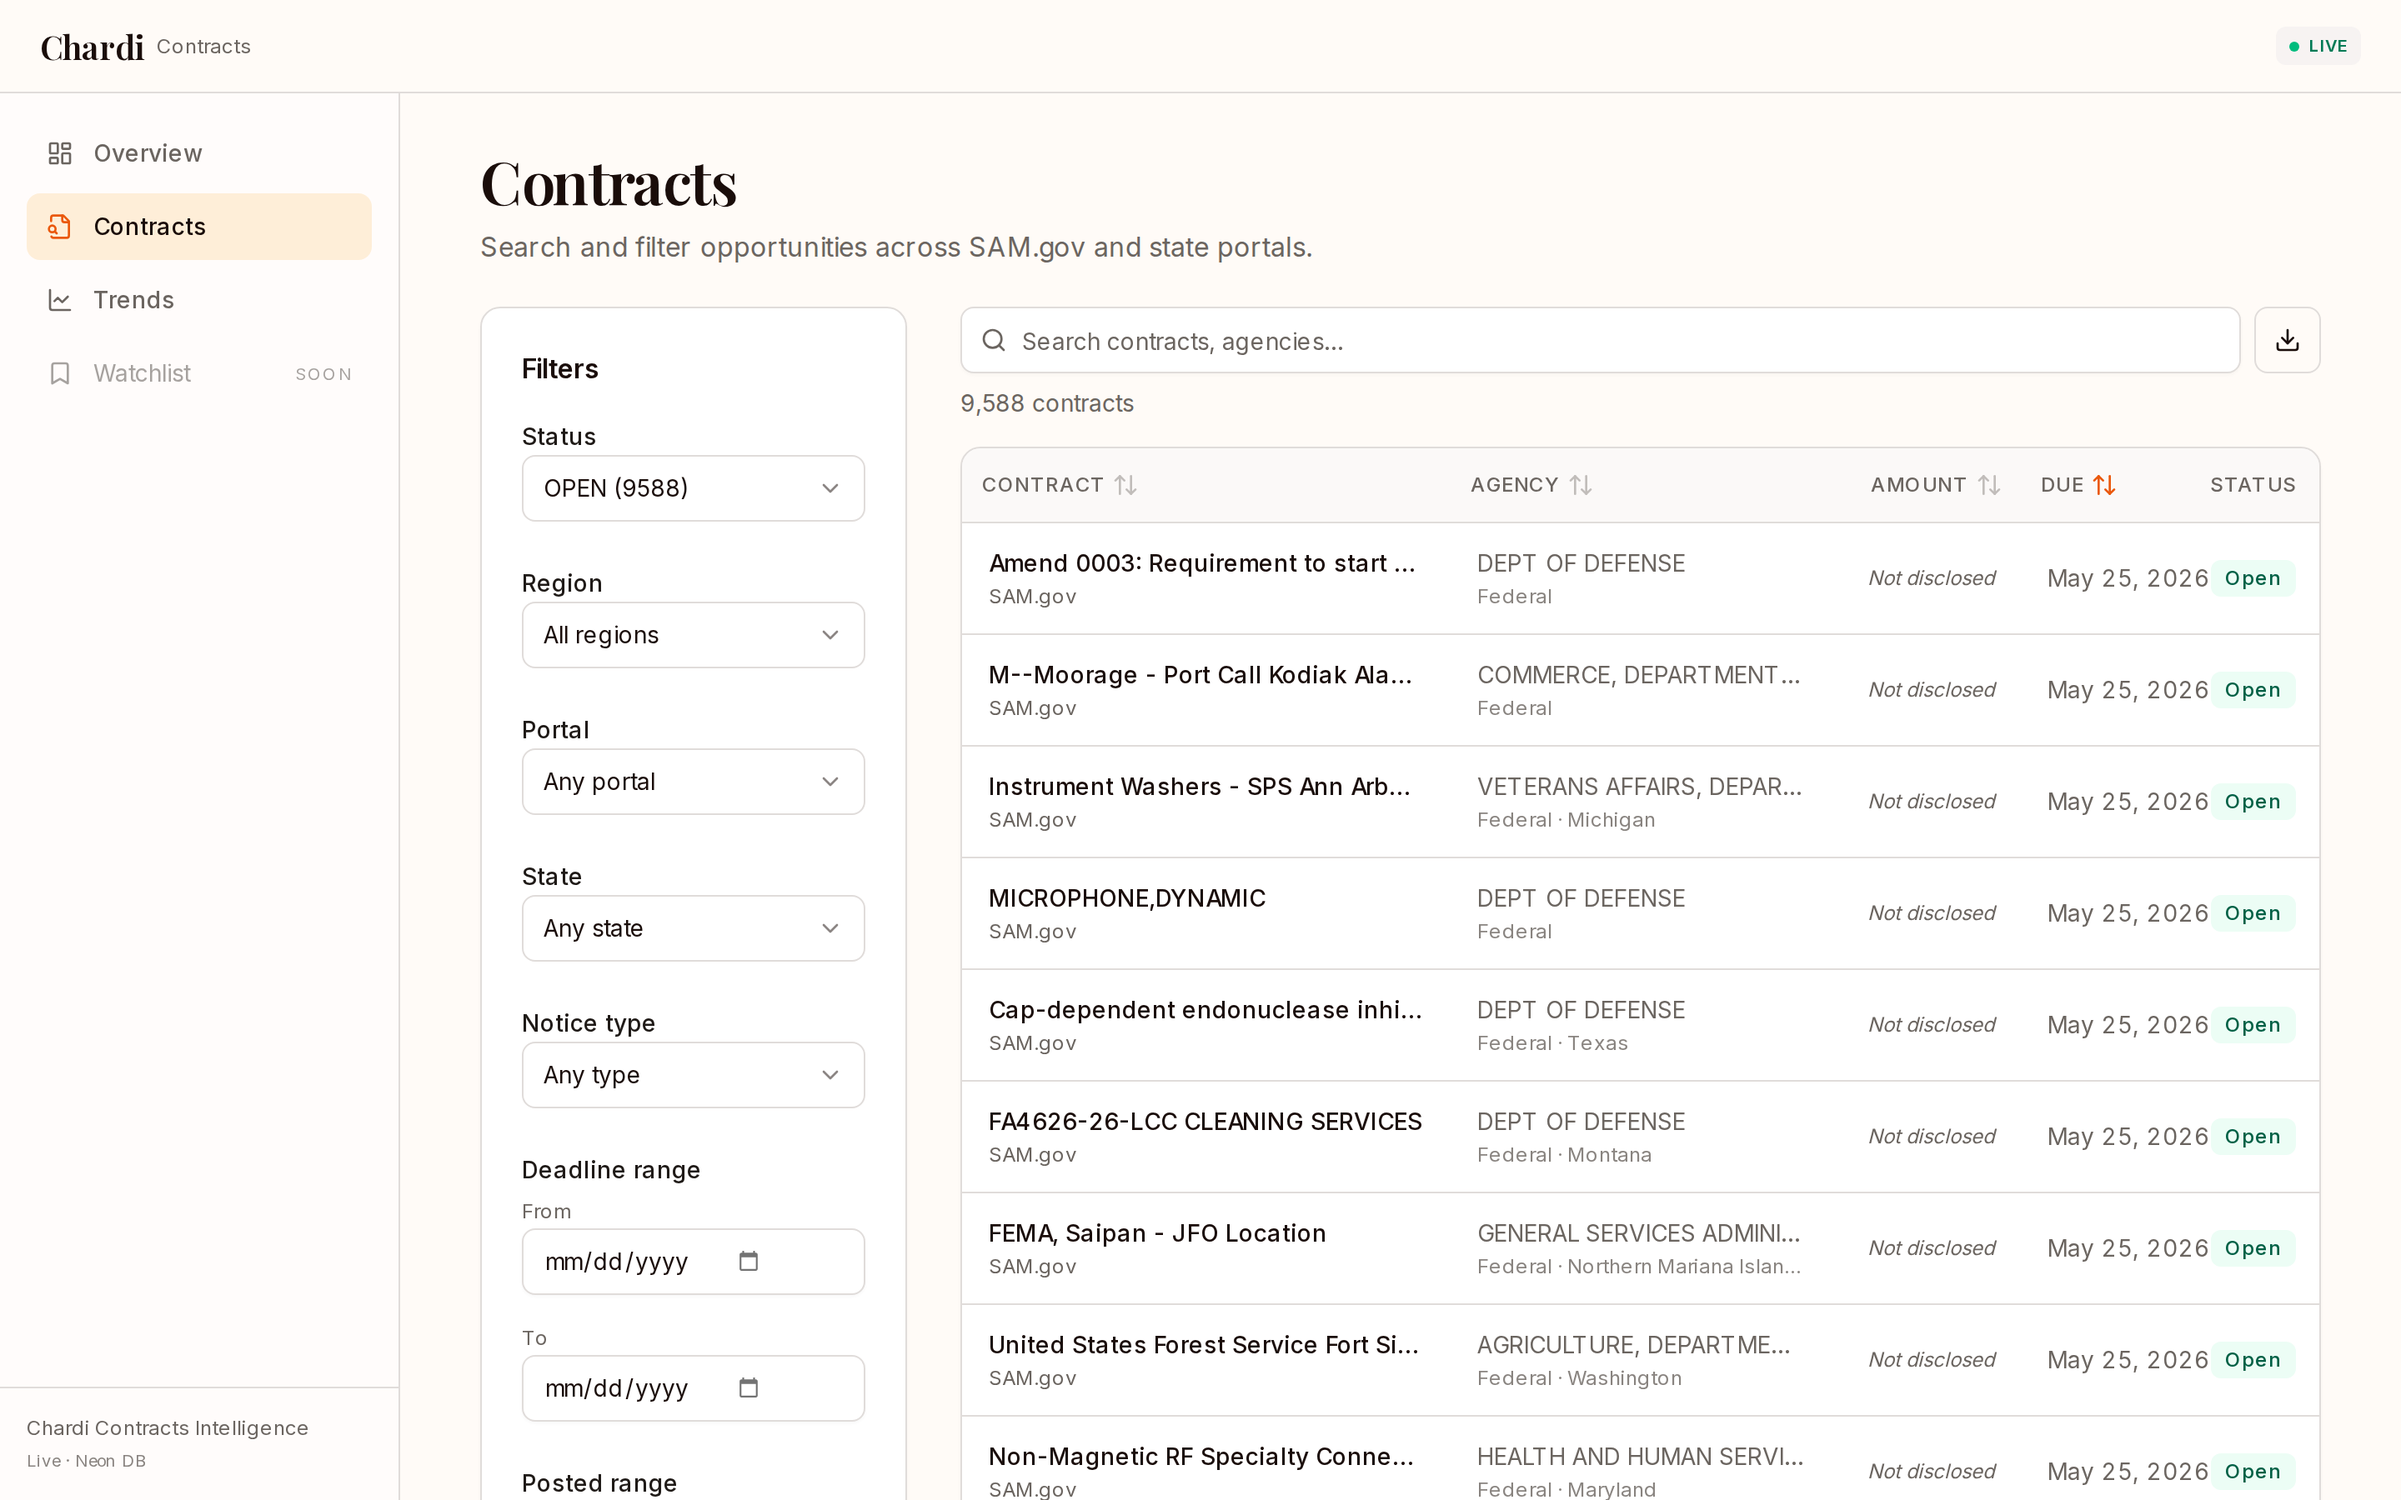
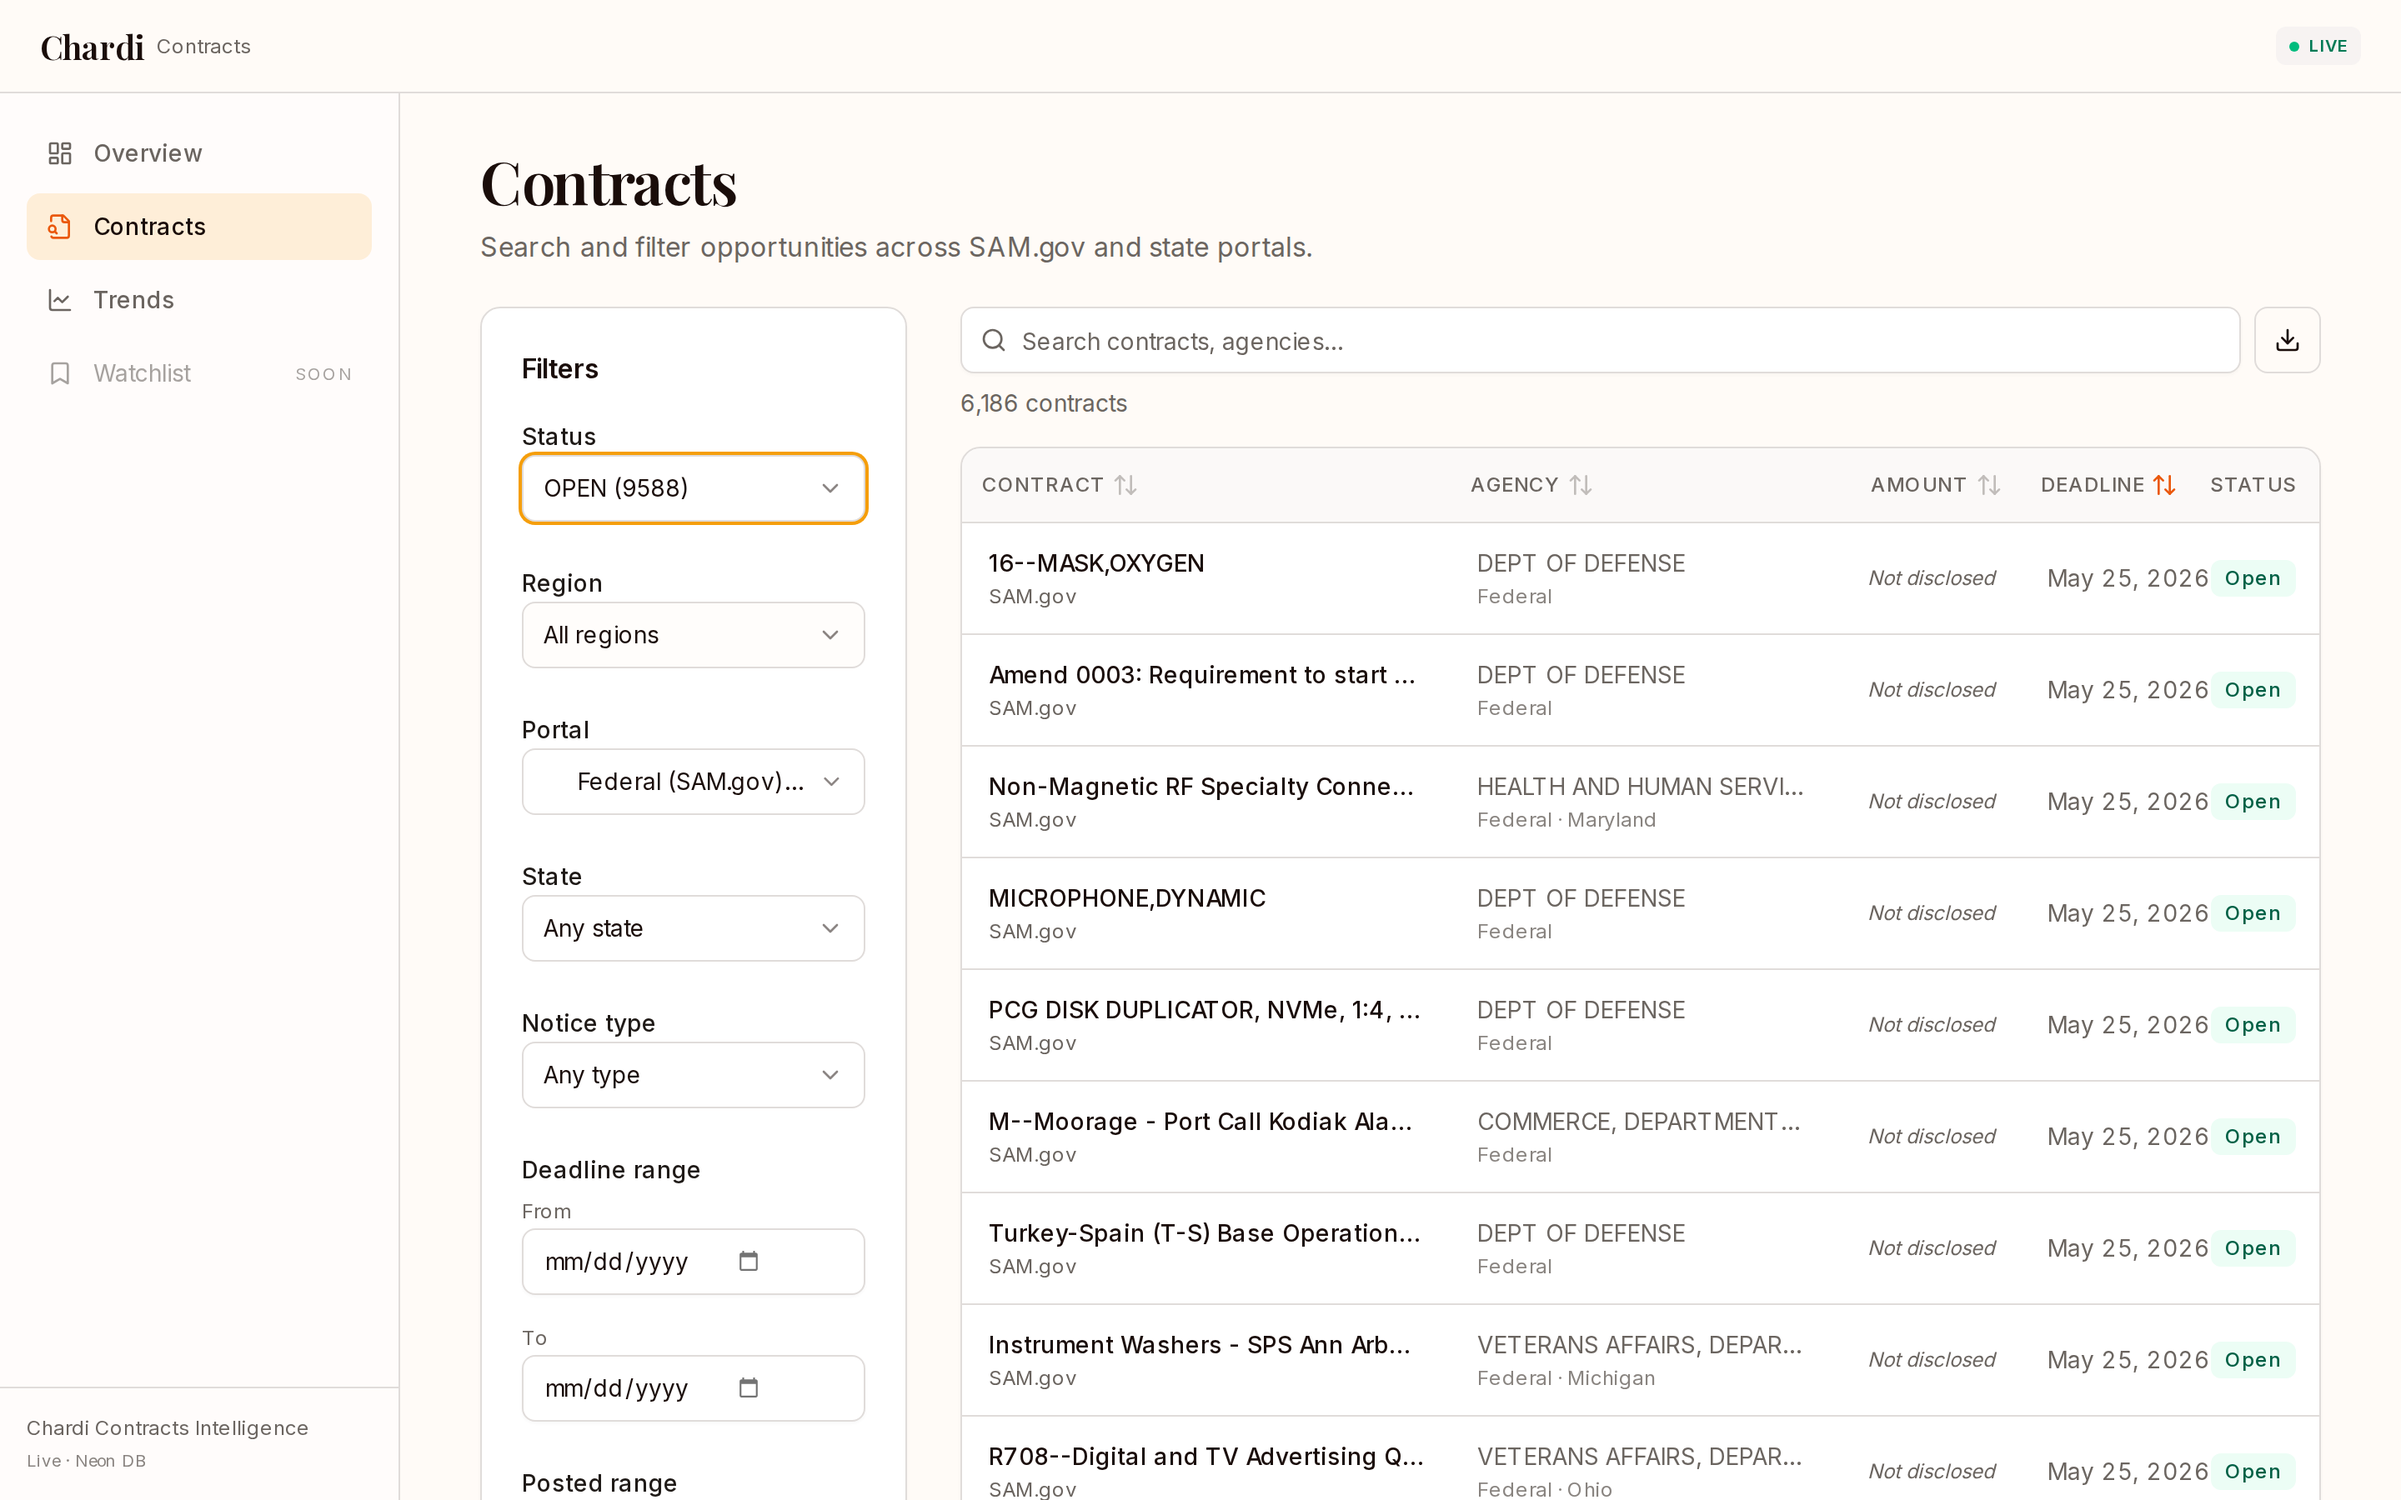
docs: fix filtered screenshot with SAM.gov+OPEN filters visibly applied, fix mobile screenshot sizing

diff --git a/scripts/retake_filtered_ss.py b/scripts/retake_filtered_ss.py
@@ -1,0 +1,73 @@
+"""
+Retake the filtered SAM.gov screenshot — uses shadcn combobox click interaction.
+"""
+
+from playwright.sync_api import sync_playwright
+from pathlib import Path
+import time
+
+BASE_URL = "https://chardi-contracts.vercel.app"
+OUT_DIR = Path(__file__).resolve().parent.parent / "docs" / "screenshots"
+
+
+def select_combobox_option(page, button_id: str, option_text: str):
+    """Click a shadcn combobox button and select an option by visible text."""
+    btn = page.locator(f"#{button_id}")
+    btn.click()
+    time.sleep(0.8)
+    # Options appear in a listbox/popover
+    option = page.get_by_role("option", name=option_text, exact=False).first
+    if option.count() == 0:
+        # fallback: find by text in any visible element
+        option = page.locator(f"[role='listbox'] [role='option']").filter(has_text=option_text).first
+    option.click()
+    time.sleep(0.8)
+
+
+def run():
+    with sync_playwright() as p:
+        browser = p.chromium.launch(headless=True)
+        ctx = browser.new_context(
+            viewport={"width": 1440, "height": 900},
+            device_scale_factor=2,
+        )
+        page = ctx.new_page()
+
+        print("Opening contracts page...")
+        page.goto(f"{BASE_URL}/contracts", wait_until="domcontentloaded")
+        page.wait_for_load_state("networkidle")
+        time.sleep(2)
+
+        # Apply Portal = SAM.gov
+        print("Applying Portal filter: SAM.gov...")
+        try:
+            select_combobox_option(page, "filter-portal", "SAM.gov")
+            print("  ✓ Portal set to SAM.gov")
+        except Exception as e:
+            print(f"  ✗ Portal filter failed: {e}")
+
+        page.wait_for_load_state("networkidle")
+        time.sleep(1.5)
+
+        # Apply Status = OPEN
+        print("Applying Status filter: OPEN...")
+        try:
+            select_combobox_option(page, "filter-status", "OPEN")
+            print("  ✓ Status set to OPEN")
+        except Exception as e:
+            print(f"  ✗ Status filter failed: {e}")
+
+        page.wait_for_load_state("networkidle")
+        time.sleep(2.5)
+
+        out_path = OUT_DIR / "04_contracts_filtered_samgov.png"
+        page.screenshot(path=str(out_path), full_page=False)
+        size_kb = out_path.stat().st_size // 1024
+        print(f"\n✅  Saved: {out_path.name} ({size_kb} KB)")
+
+        ctx.close()
+        browser.close()
+
+
+if __name__ == "__main__":
+    run()

diff --git a/README.md b/README.md
@@ -79,9 +79,11 @@ Monthly posting volume, upcoming deadlines, breakdown by portal and state.
 
 Designed mobile-first. Cards on small screens, table on desktop. Filter drawer, sticky header, thumb-friendly controls.
 
-![Mobile Dashboard](docs/screenshots/07_mobile_dashboard.png)
-
-![Mobile Cards](docs/screenshots/08_mobile_contracts_cards.png)
+<p>
+  <img src="docs/screenshots/07_mobile_dashboard.png" width="320" alt="Mobile Dashboard" />
+  &nbsp;&nbsp;
+  <img src="docs/screenshots/08_mobile_contracts_cards.png" width="320" alt="Mobile Cards" />
+</p>
 
 ---
 
